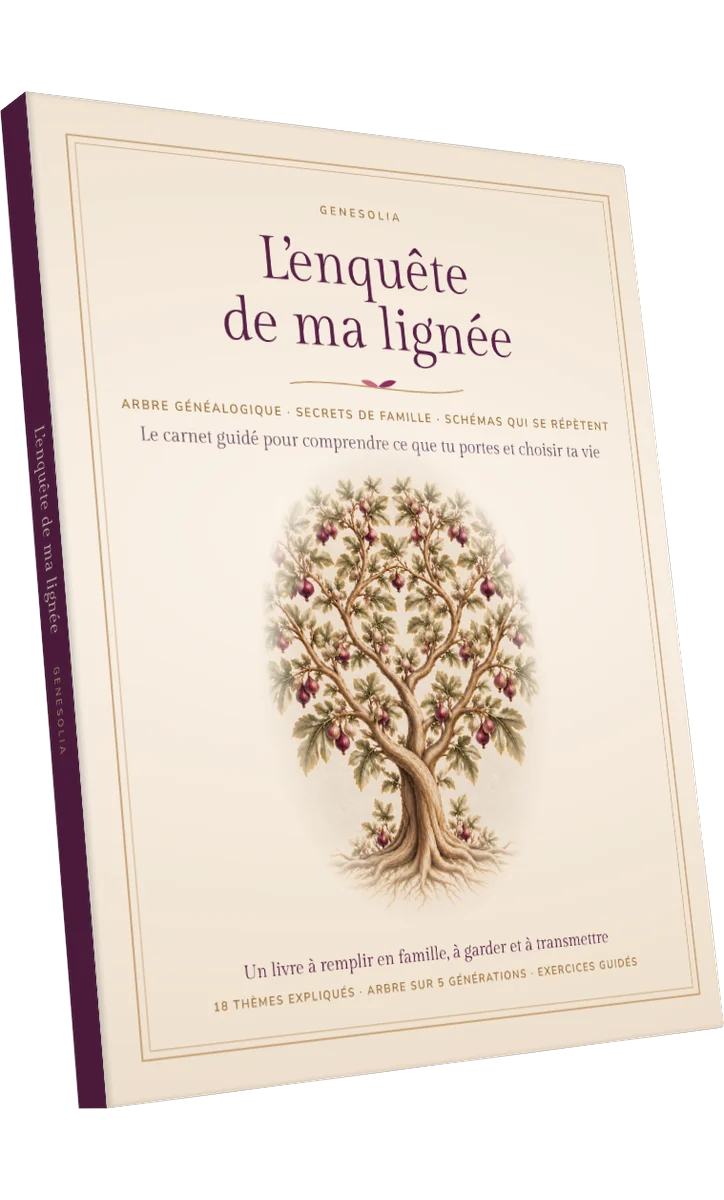
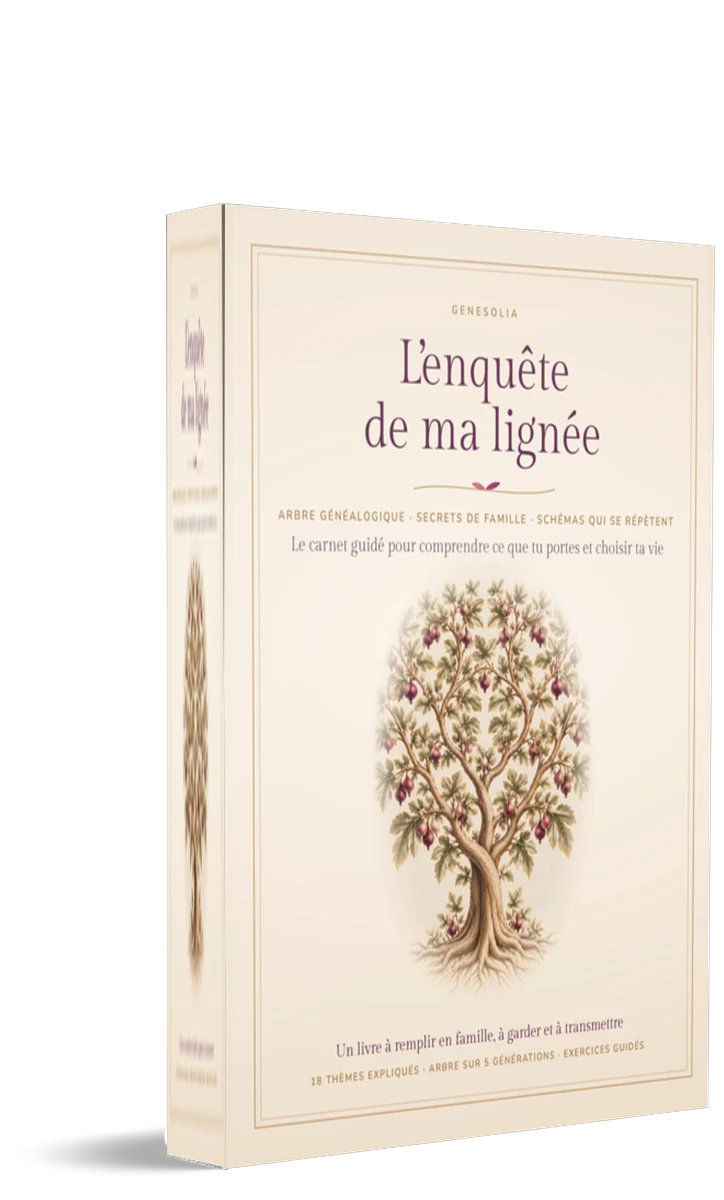
Livres : nouvelles images 3D (Racines relié, Enquête broché), même hauteur ; Racines en 3D en tête de sa page (#392)
Claude-Session: https://claude.ai/code/session_013ZTKg9MAWnXCkEjcoBkvNJ

diff --git a/racines.html b/racines.html
@@ -26,7 +26,7 @@
     .lv-points{list-style:none;padding:0;margin:0 0 1.6rem;display:grid;gap:.45rem;color:#F7E6EE}
     .lv-points li{padding-left:1.4rem;position:relative}
     .lv-points li::before{content:'';position:absolute;left:0;top:.62em;width:.6rem;height:1px;background:var(--champagne-clair)}
-    .lv-visuel{perspective:1400px;display:flex;justify-content:center}.lv-visuel img{width:100%;max-width:380px;height:auto;display:block;border-radius:3px 8px 8px 3px;transform:rotateY(-16deg) rotateX(2deg);box-shadow:-6px 0 0 #2f0428,-8px 2px 0 #f3e6dc,24px 34px 60px rgba(0,0,0,.45);transition:transform .6s ease}.lv-visuel img:hover{transform:rotateY(-6deg)}
+    .lv-visuel{display:flex;justify-content:center}.lv-visuel img{width:100%;max-width:400px;height:auto;display:block;filter:drop-shadow(0 30px 44px rgba(0,0,0,.45))}
     .lv-form{background:var(--blanc);color:var(--prune);border-radius:var(--rayon);padding:1.3rem 1.4rem;max-width:30rem;box-shadow:0 18px 40px rgba(0,0,0,.18)}
     .lv-form h2{font-size:1.3rem;margin:0 0 .3rem;color:var(--prune)}
     .lv-form p.discret{margin:0 0 .8rem;color:var(--prune-doux);font-size:.95rem}
@@ -108,7 +108,7 @@
             <p class="lv-msg" role="alert" aria-live="polite"></p>
           </form>
         </div>
-        <div class="lv-visuel"><img src="assets/livre/racines-couverture.jpg" width="1200" height="1551" alt="Le livre Racines, Le Cercle livre 1, couverture violette avec un arbre doré"></div>
+        <div class="lv-visuel"><img src="assets/livres/racines-3d.webp" width="543" height="900" alt="Le livre Racines, Le Cercle livre 1, couverture violette avec un arbre doré"></div>
       </div>
     </section>
 
